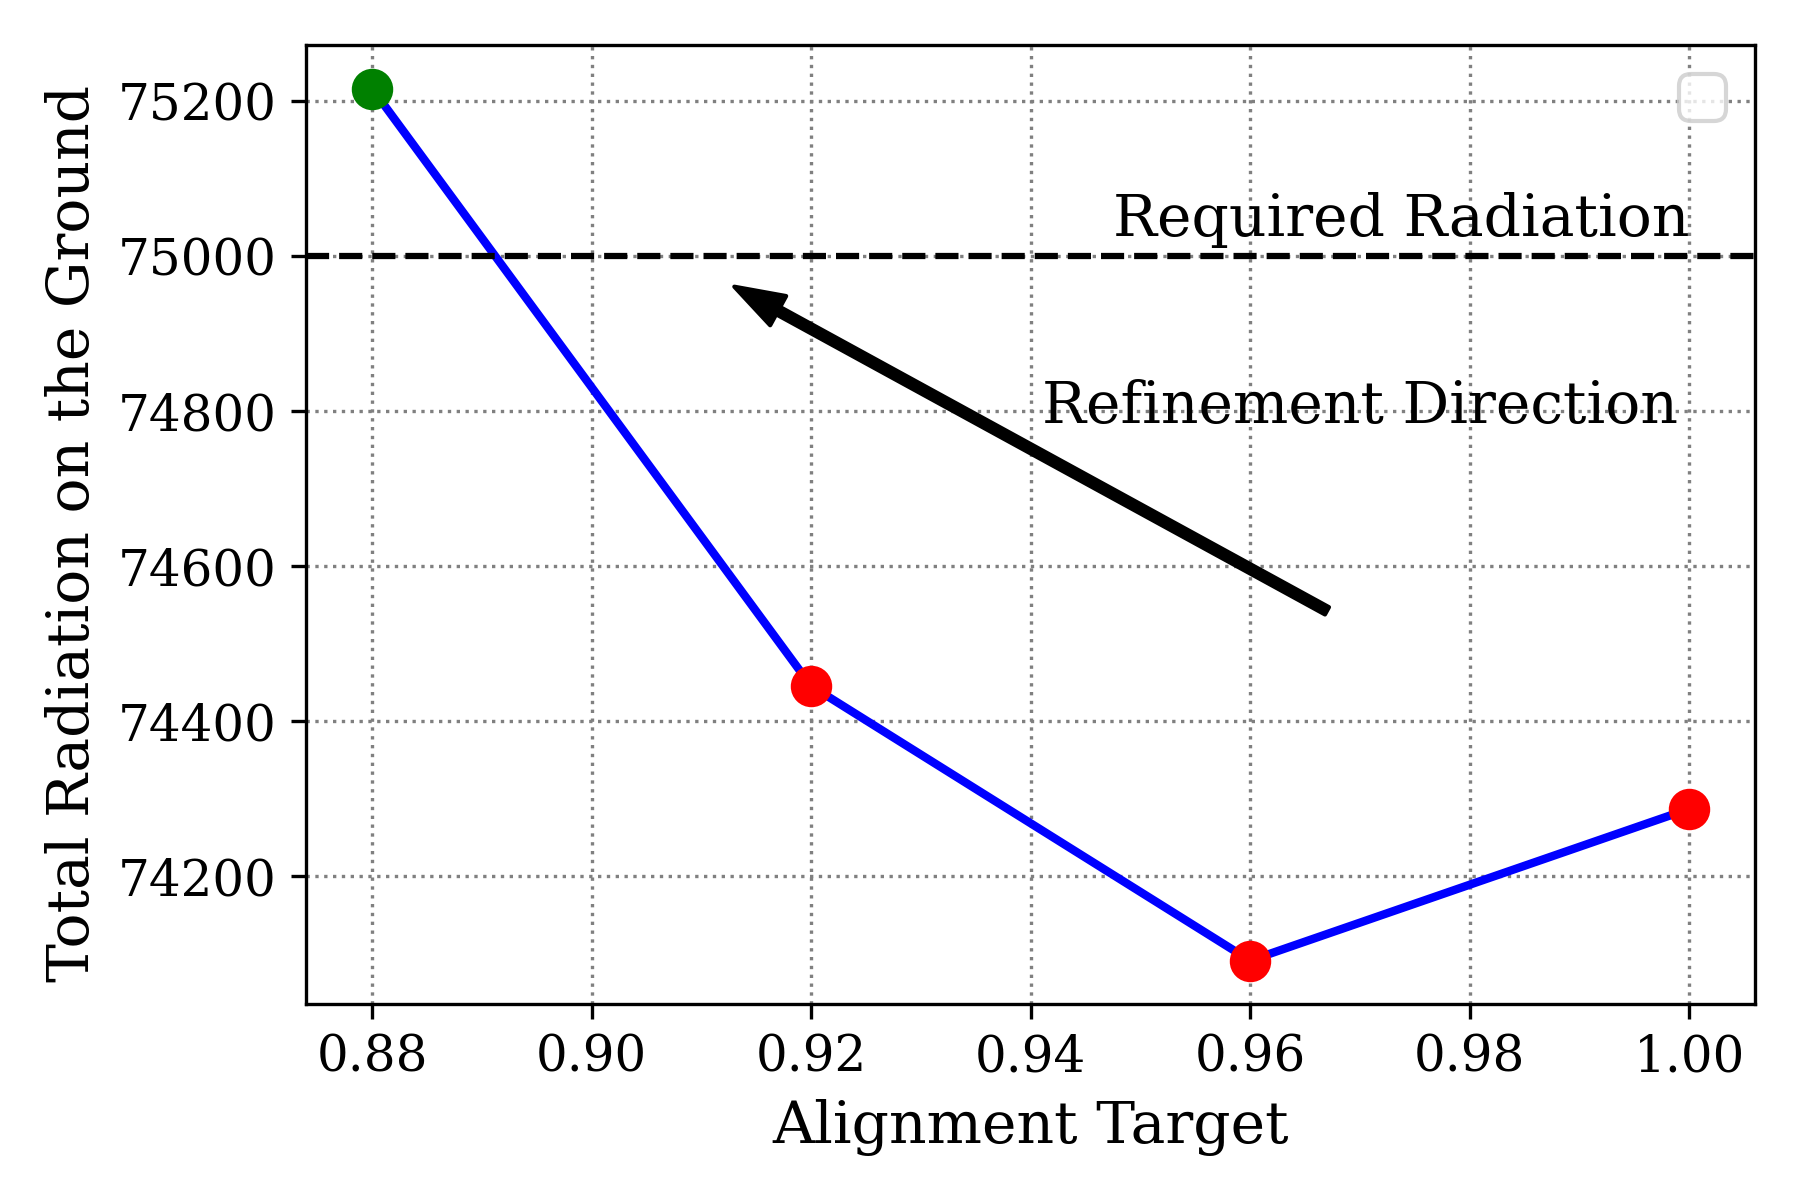
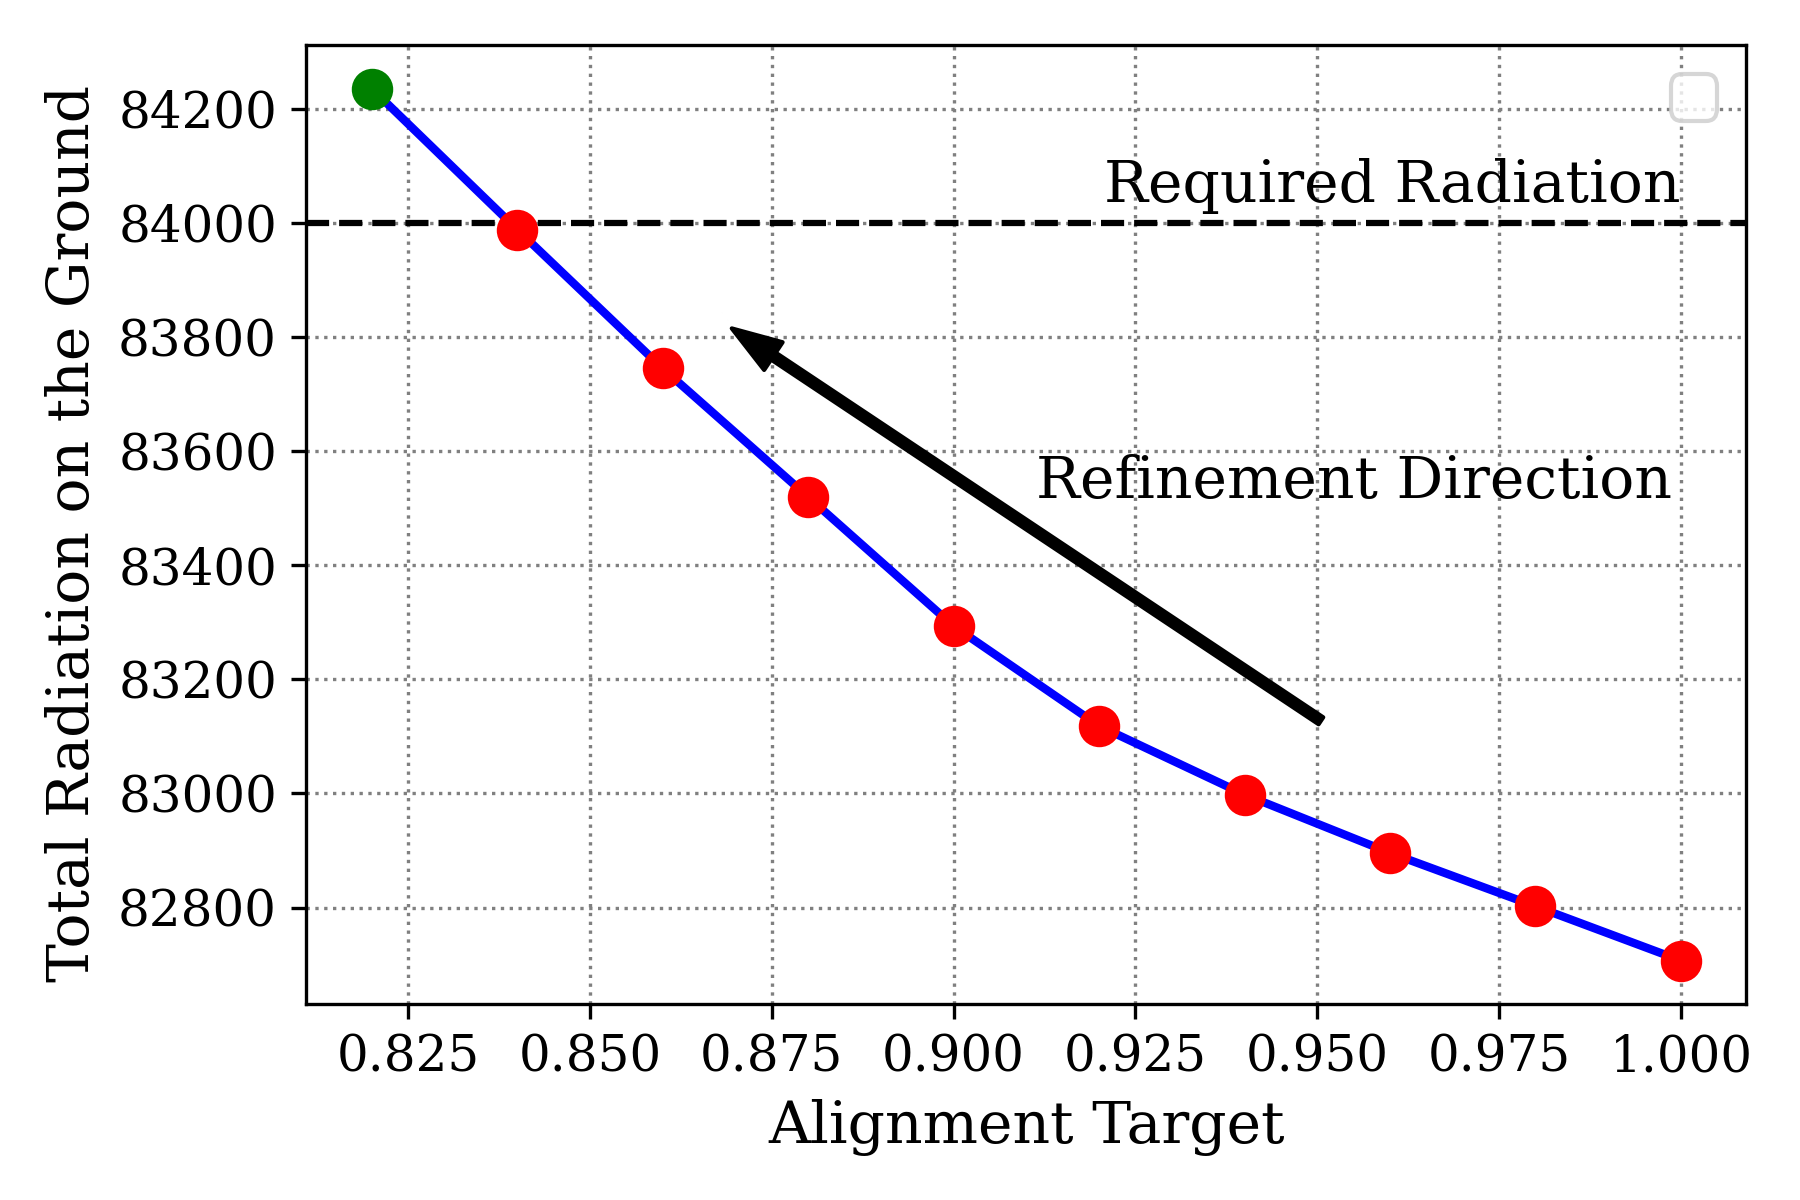
new_version_1May

diff --git a/main.py b/main.py
@@ -12,7 +12,7 @@ import os
 # ------------------------------------------
 # ⚙ Mode Selection
 # ------------------------------------------
-run_optimization_mode = True  # 🔁 Set to False to skip optimization and only visualize
+run_optimization_mode = False  # 🔁 Set to False to skip optimization and only visualize
 
 # ------------------------------------------
 # 📍 Location and Time Setup
@@ -53,23 +53,29 @@ plant_bounds = {
 MIN_SUN_ALTITUDE_DEG = 35  # Minimum sun altitude for shadow calculations
 # MIN_SUN_ALTITUDE_DEG = 10  # Minimum sun altitude for shadow calculations
 
-required_radiation = 75000
+required_radiation = 84000
 # required_radiation = 7820
 
-delta = 0.04  # Step size for alignment target adjustment
+delta = 0.02  # Step size for alignment target adjustment
 
 # ------------------------------------------
 # 🌞 Radiation Estimation Function
 # ------------------------------------------
+
 def estimate_radiation(shadow_corners, ghi):
     if np.any(np.isnan(shadow_corners)):
         return ghi  # No shadow = full radiation
 
-    plant_area = (plant_bounds['pos_x'] - plant_bounds['neg_x']) * (plant_bounds['pos_y'] - plant_bounds['neg_y'])
+    def polygon_area(points):
+        x = points[:, 0]
+        y = points[:, 1]
+        return 0.5 * abs(np.dot(x, np.roll(y, -1)) - np.dot(y, np.roll(x, -1)))
+
+    plant_area = (plant_bounds['pos_x'] - plant_bounds['neg_x']) * \
+                 (plant_bounds['pos_y'] - plant_bounds['neg_y'])
+
     shadow_poly = shadow_corners[:, :2]
-    min_x, max_x = np.min(shadow_poly[:, 0]), np.max(shadow_poly[:, 0])
-    min_y, max_y = np.min(shadow_poly[:, 1]), np.max(shadow_poly[:, 1])
-    shadow_area = max(0, (max_x - min_x) * (max_y - min_y))
+    shadow_area = polygon_area(shadow_poly)
     unshaded_area = max(0, plant_area - shadow_area)
     return (unshaded_area / plant_area) * ghi
 

diff --git a/utilities.py b/utilities.py
@@ -592,7 +592,7 @@ def figure_three(alignment_history, required_radiation, save_path="figure3_radia
                 fontsize=12, ha='center', va='bottom')
     
     # Place separate text label near the midpoint
-    ax.text(x_half + 0.06, y_half + 0.03 * (max(radiation_values) - min(radiation_values)),  # slightly above arrow
+    ax.text(x_half + 0.09, y_half + 0.03 * (max(radiation_values) - min(radiation_values)),  # slightly above arrow
             'Refinement Direction', fontsize=14, ha='center')
 
     ax.text(1, required_radiation + 0.01 * (max(radiation_values) - min(radiation_values)),
